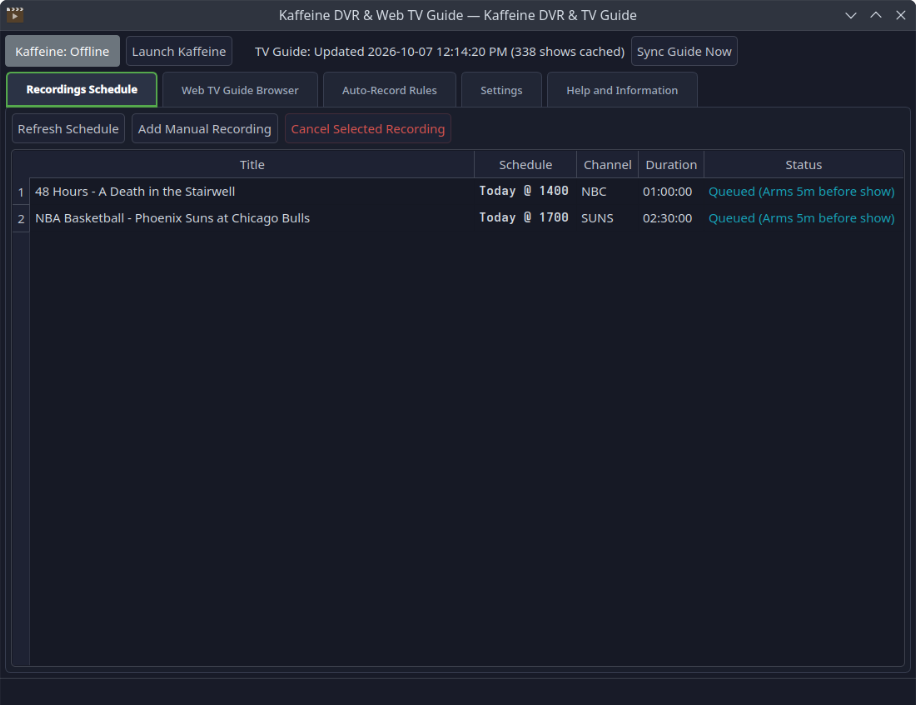
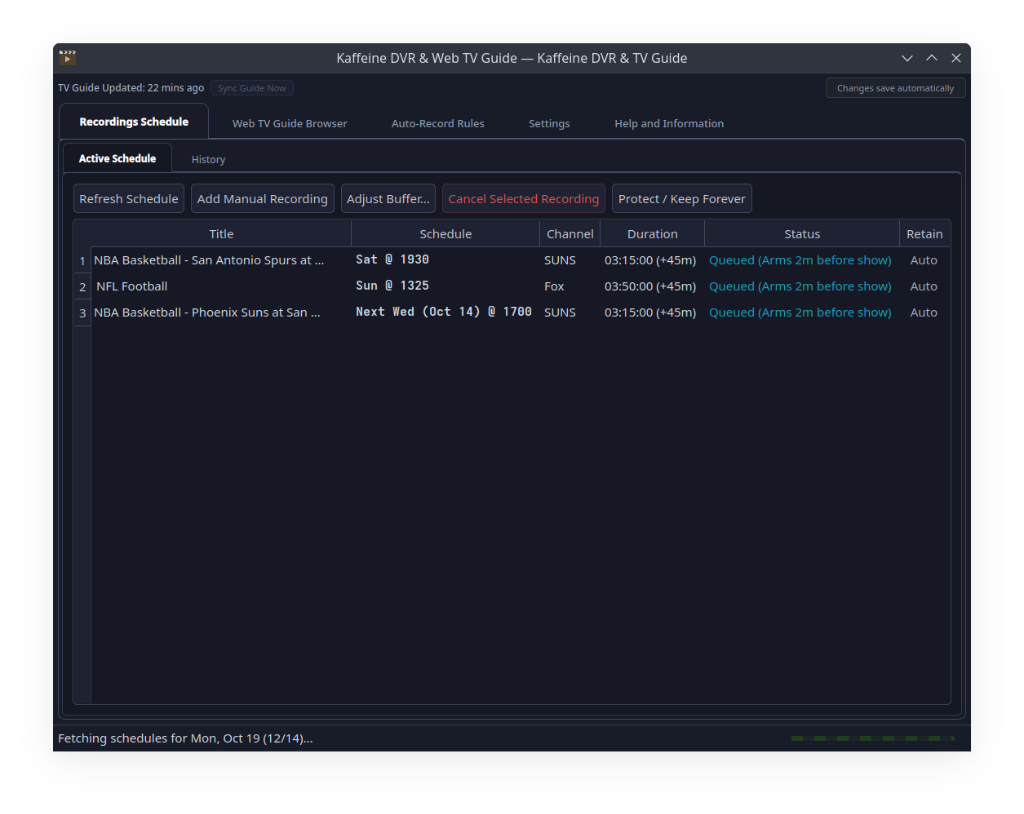
Bump version to 0.7.5 and update UI screenshots

diff --git a/kaffeine_dvr/__init__.py b/kaffeine_dvr/__init__.py
@@ -1,2 +1,2 @@
 # kaffeine_dvr package
-__version__ = "0.7.4"
+__version__ = "0.7.5"
